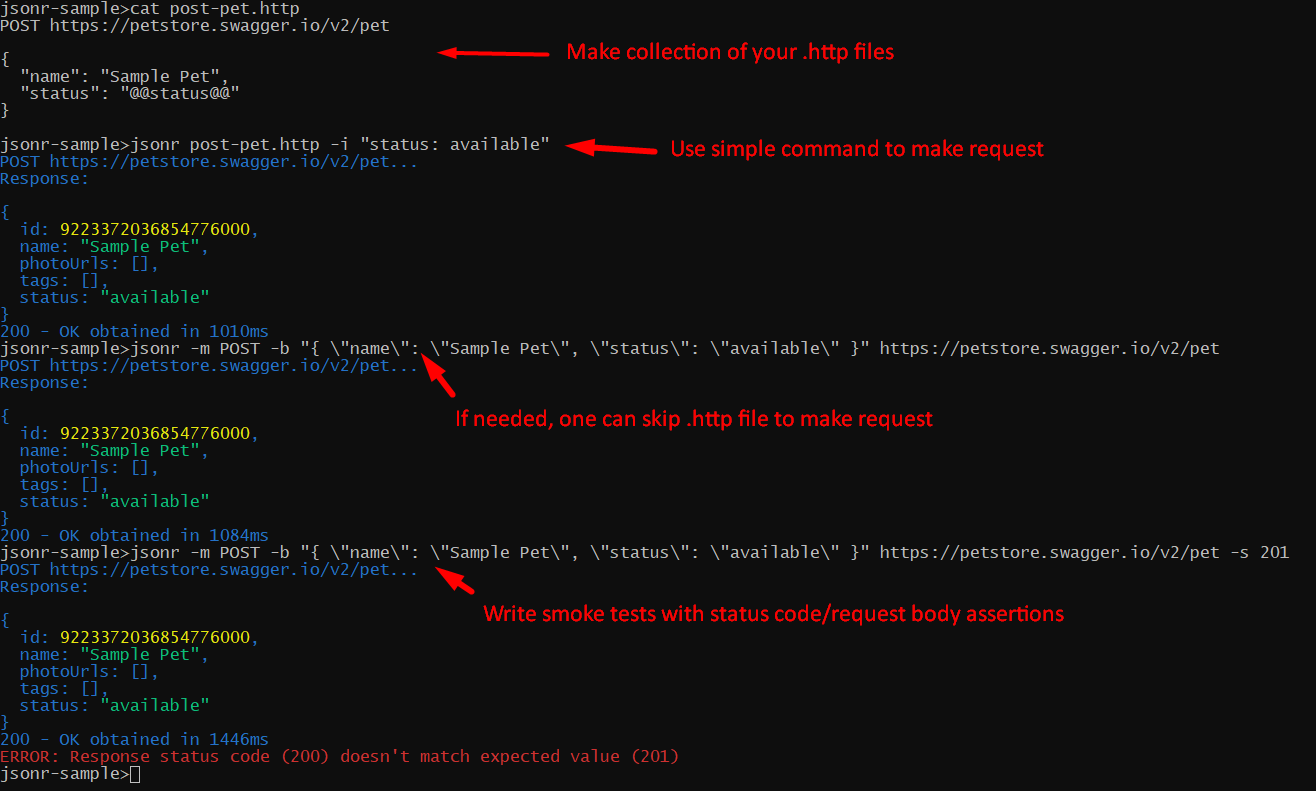
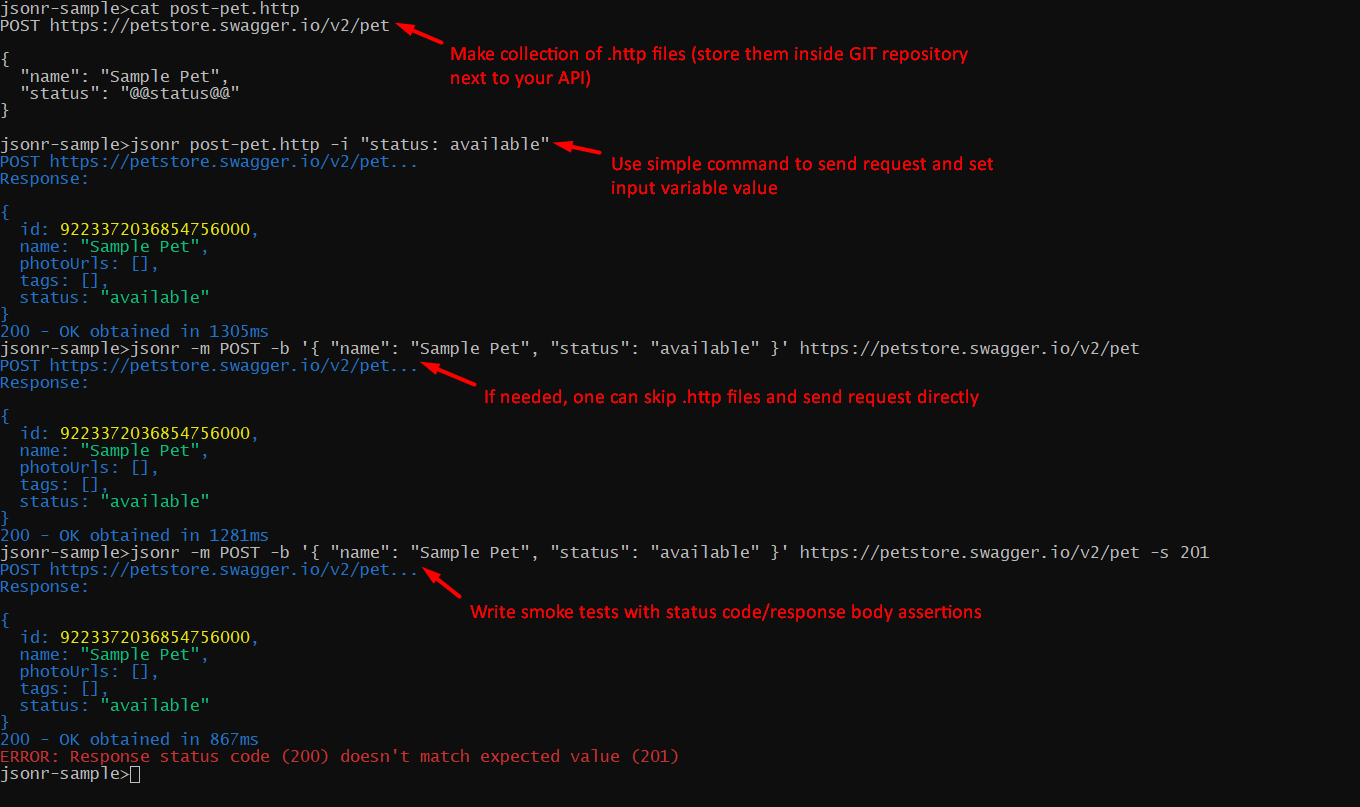
update descriptions in screenshot in readme file

diff --git a/src/commands/version.js b/src/commands/version.js
@@ -1,4 +1,4 @@
-const version = "1.2.2";
+const version = "1.2.3";
 
 export default {
   execute: () => console.log(version),

diff --git a/changelog.md b/changelog.md
@@ -1,3 +1,7 @@
+# 1.2.3
+
+* Updated readme. Version bump only to update Deno module page (screenshot in readme updated)
+
 # 1.2.2
 
 * Updated readme. Version bump only to update Deno module page
